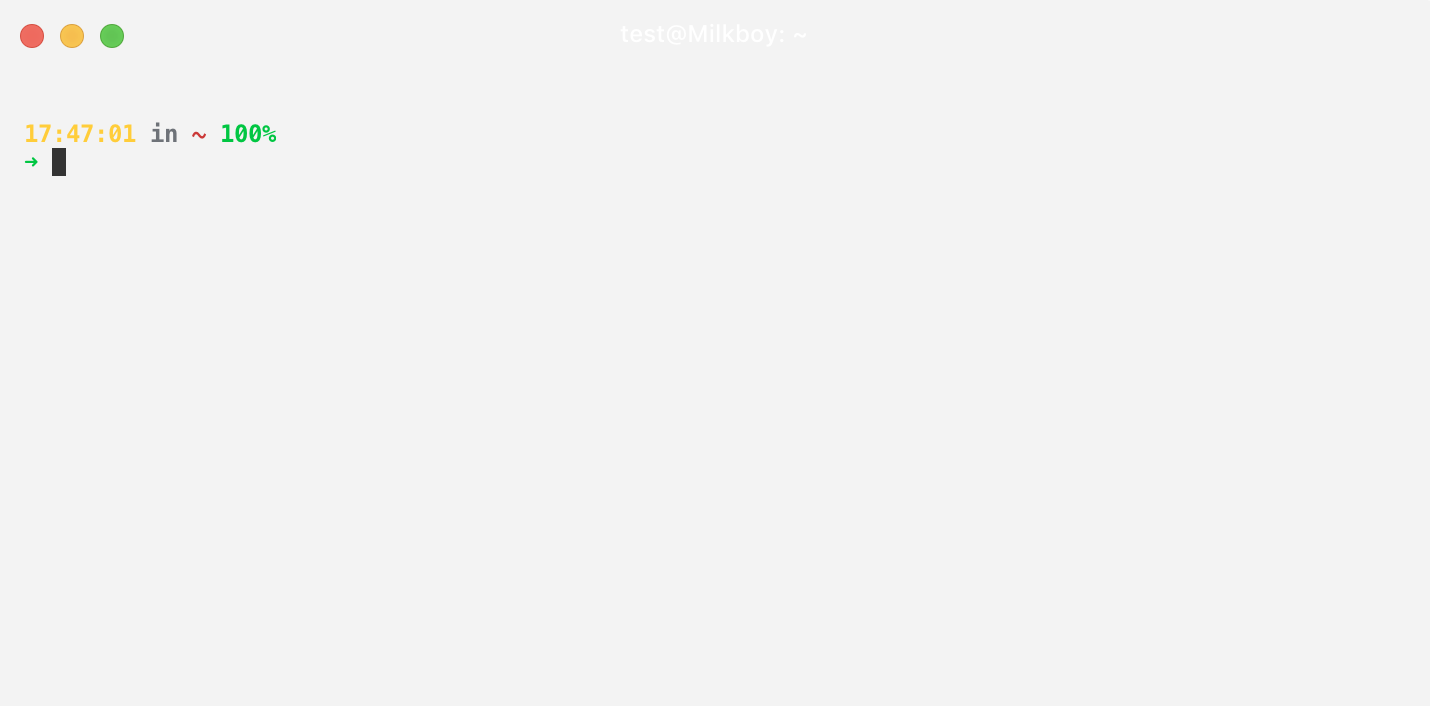
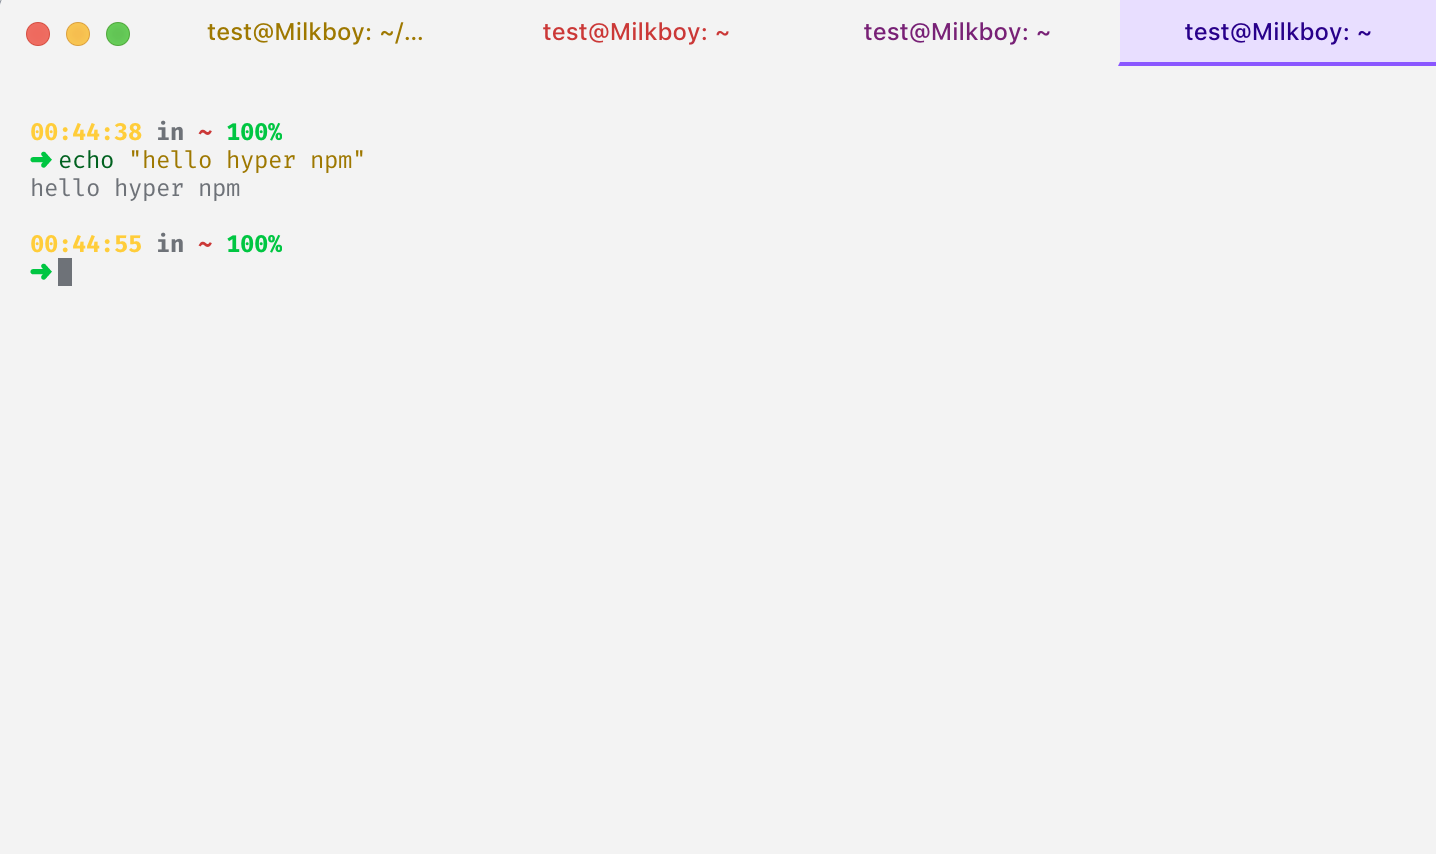
[feat] tabs and active tab colored

diff --git a/index.js b/index.js
@@ -1,7 +1,7 @@
 const backgroundColor = '#f3f3f3'
 const foregroundColor = '#6E7278'
 const cursorColor = '#6E7278'
-const borderColor = 'transparent'
+const borderColor = '#f3f3f3'
 
 const colors = {
   lightBlack: '#6E7278',
@@ -47,18 +47,45 @@ exports.decorateConfig = config => {
         background-color: #f3f3f3;
         color: ${foregroundColor};
       }
-      .tab_tab {
-        color: ${foregroundColor};
+      .tabs_title{
+        color: ${colors.yellow};
+      }
+      .tab_tab:nth-child(4n+1) {
+        color: ${colors.yellow};
+      }
+      .tab_tab:nth-child(4n+2) {
+        color: ${colors.red};
+      }
+      .tab_tab:nth-child(4n+3) {
+        color: ${colors.magenta};
+      }
+      .tab_tab:nth-child(4n+4) {
+        color: ${colors.blue};
+      }
+      .tab_tab:nth-child(4n+1).tab_active {
+        color: ${colors.yellow};
+        background-color:#FFF5DB;
+        border-bottom: 2px solid ${colors.yellow} !important;
+      }
+      .tab_tab:nth-child(4n+2).tab_active{
+        font-weight: 700;
+        color: ${colors.red};
+        background-color: #fdd8d6;
+        border-bottom: 2px solid ${colors.lightRed} !important;
+      }
+      .tab_tab:nth-child(4n+3).tab_active {
+        font-weight: 700;
+        color: ${colors.magenta};
+        background-color: #F6D8F4;
+        border-bottom: 2px solid ${colors.lightMagenta} !important;
+      }
+      .tab_tab:nth-child(4n+4).tab_active {
+        color: ${colors.blue};
+        background-color: #E8DEFF
+        border-bottom: 2px solid ${colors.lightBlue} !important;
       }
       .tab_tab:before {
       	border: 0;
-      }
-      .tab_tab.tab_active {
-        border: transparent;
-        font-weight: bold;
-        color: ${colors.red};
-        background - color: #fdd8d6;
-        border: ${colors.red}
       }
       .splitpane_divider {
       	background-color: ${colors.red};
